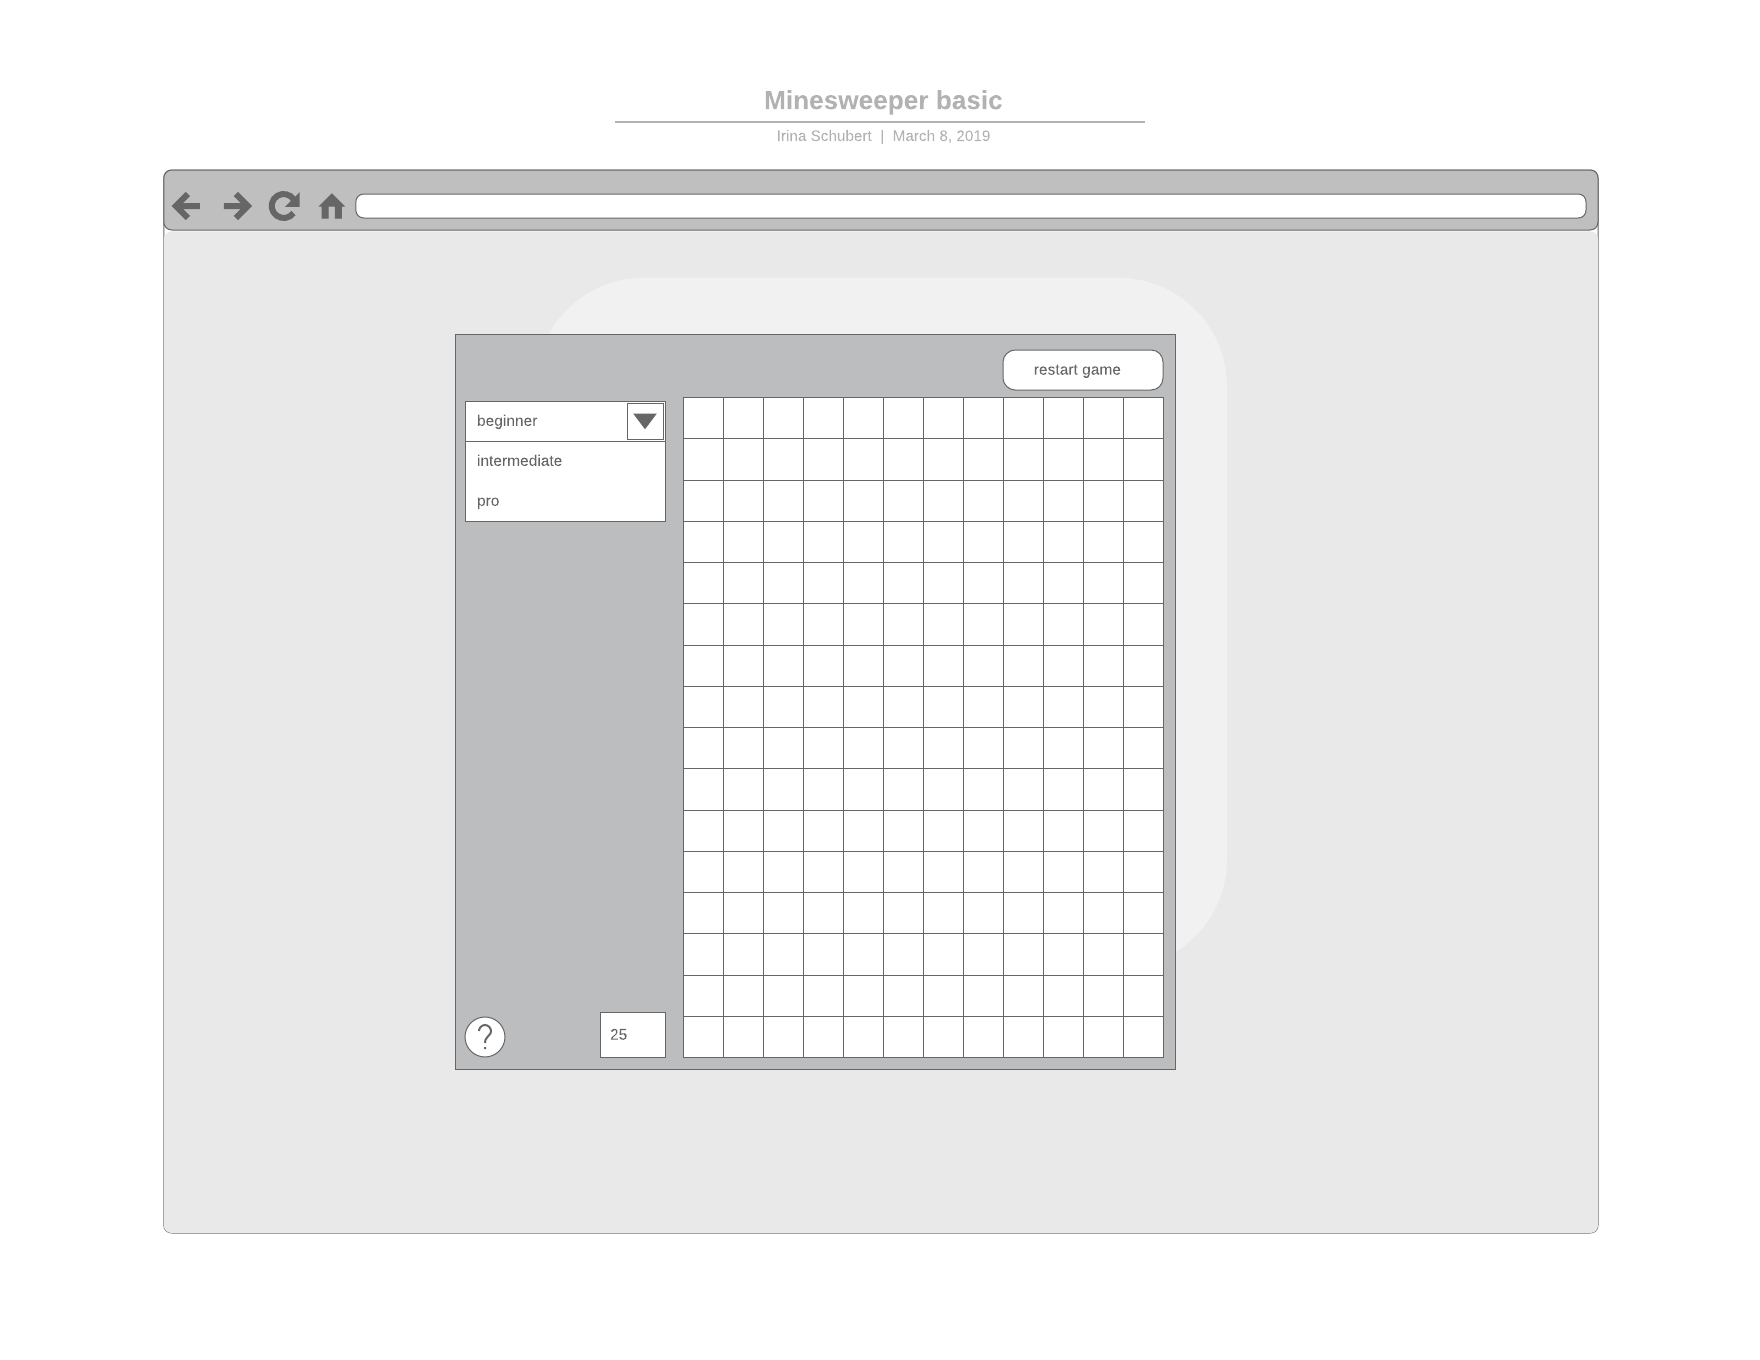
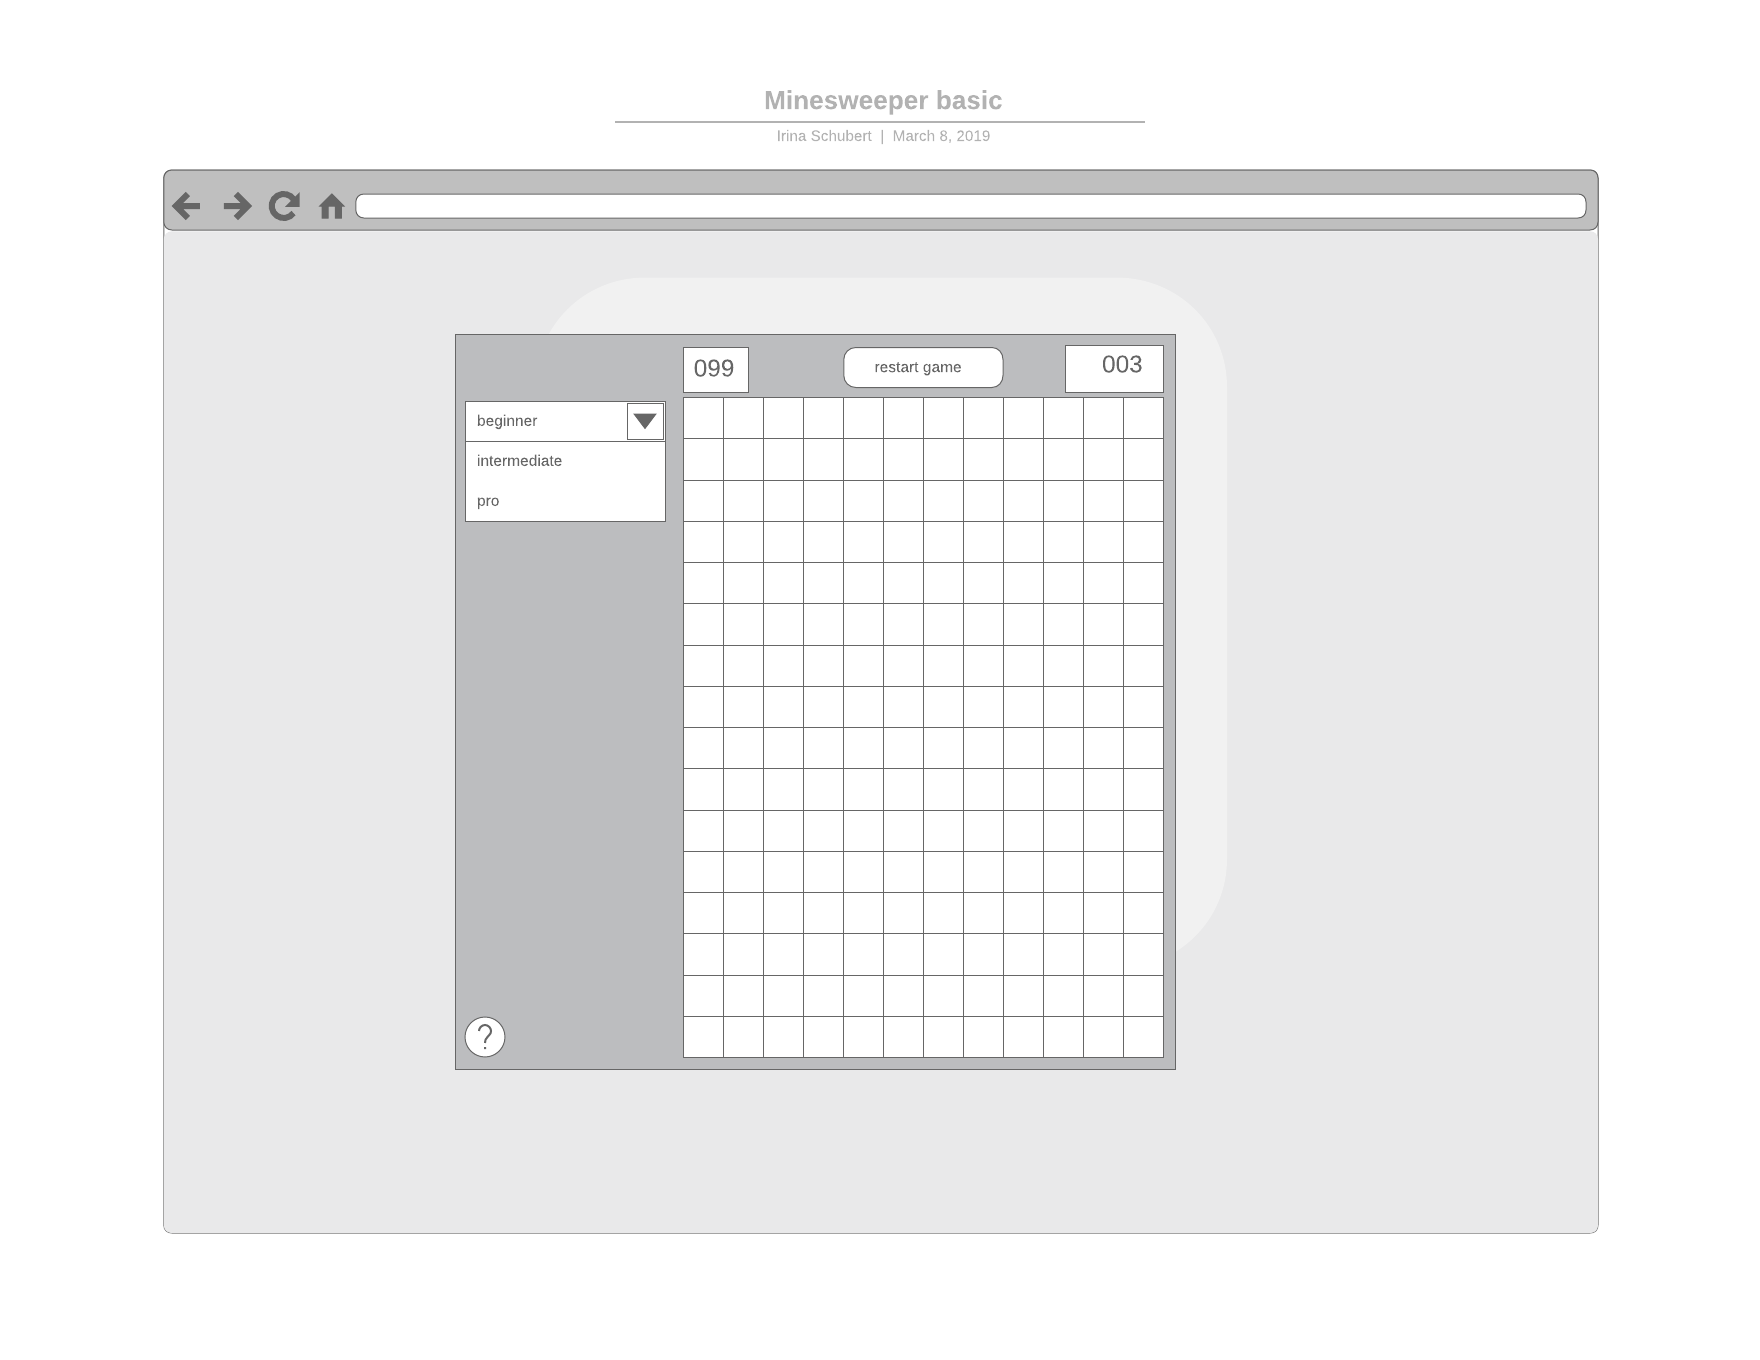
replace mockup; add some basic html and css

Changed region(s): [[0.4688, 0.2471, 0.6562, 0.3088], [0.375, 0.2471, 0.4375, 0.3088], [0.3438, 0.7412, 0.375, 0.8029]]

diff --git a/html/index.html b/html/index.html
@@ -3,25 +3,19 @@
 <head>
     <title>FWebT: Minesweeper mit javascript</title>    
     <meta name="viewport" content="width=device-width, initial-scale=1.0" charset="utf-8">
-    <link rel="stylesheet" href="css/style.css" type="text/css"/>
+    <link rel="stylesheet" href="../css/style.css" type="text/css"/>
+    <link href="https://fonts.googleapis.com/css?family=Amatic+SC" rel="stylesheet"> 
 </head>
 <body onload="startGame()">
-<script>
+<div class="container">
+    <header>
+        <h1>Minesweeper</h1>
+        <h2>Fortgeschrittene Webtechnologien<br>FS 2019, FFHS</h2>
+    </header>
     
-function startGame() {
-    myGameArea.start();
-}
+</div>    
 
-let myGameArea = {
-    canvas : document.createElement("canvas"),
-    start : function() {
-        this.canvas.width = 480;
-        this.canvas.height = 270;
-        this.context = this.canvas.getContext("2d");
-        document.body.insertBefore(this.canvas, document.body.childNodes[0]);
-    }
-}
-</script>
+<script src="../js/minesweeper.js"></script>
 
 <p>hello world!</p>
 

diff --git a/css/style.css b/css/style.css
@@ -1,11 +1,30 @@
 /* style.css */
 
-html, body {
-    margin: 0;
-    padding: 0;
+html {
+	box-sizing: border-box;
 }
 
-canvas {
-    border: 1px solid #d3d3d3;
-    background-color: #f1f1f1;
+html,
+body {
+	width: 100%;
+	height: 100%;
+	margin: 0;
+	padding: 0;
+}
+
+body {
+	background: #ffffff;
+	font-family: 'Amatic SC', cursive;
+	font-size: 16px;
+}
+
+.container {
+	display: flex;
+	justify-content: center;
+	align-items: center;
+	flex-direction: column;
+}
+
+h1 {
+	font-family: 'Amatic SC', cursive;
 }

diff --git a/js/minesweeper.js b/js/minesweeper.js
@@ -6,4 +6,23 @@
 
 'use strict';
 
+function startGame() {
+    myGameArea.start();
+}
 
+let myGameArea = {
+    
+}
+
+// setup fields
+let field = document.getElementsByClassName("field");
+let fields = [...field];
+// loop to add event listeners to each field
+for (let i = 0; i < fields.length; i++){
+   fields[i].addEventListener("click", displayField);
+};
+
+let displayField = function (){
+   this.classList.toggle("open");
+   this.classList.toggle("flagged");
+}
